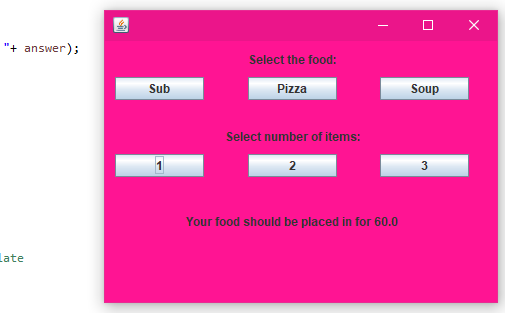
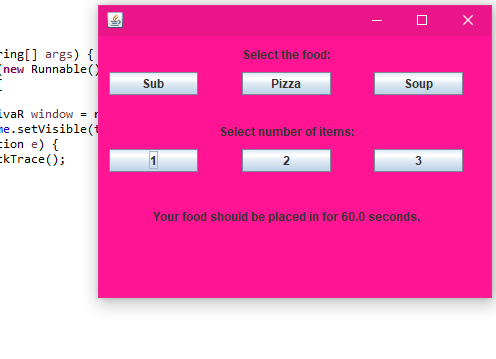
What changes Why?

diff --git a/Microwave(TivaR)/MicrowaveTivaR/src/MicrowaveTivaR.java b/Microwave(TivaR)/MicrowaveTivaR/src/MicrowaveTivaR.java
@@ -163,7 +163,7 @@ public class MicrowaveTivaR {
 				}
 				
 				//Give the answer 
-				lblAnswer.setText("Your food should be placed in for "+ answer);
+				lblAnswer.setText("Your food should be placed in for "+ answer + " seconds.");
 					
 			}
 		});
@@ -198,7 +198,7 @@ public class MicrowaveTivaR {
 				}
 				
 				//Give the answer 
-				lblAnswer.setText("Your food should be placed in for "+ answer);
+				lblAnswer.setText("Your food should be placed in for "+ answer + " seconds.");
 			}
 		});
 		btnTwoItems.setBounds(143, 113, 89, 23);
@@ -232,7 +232,7 @@ public class MicrowaveTivaR {
 				}
 				
 				//Give the answer 
-				lblAnswer.setText("Your food should be placed in for "+ answer);
+				lblAnswer.setText("Your food should be placed in for "+ answer + " seconds.");
 				
 			}
 		});
